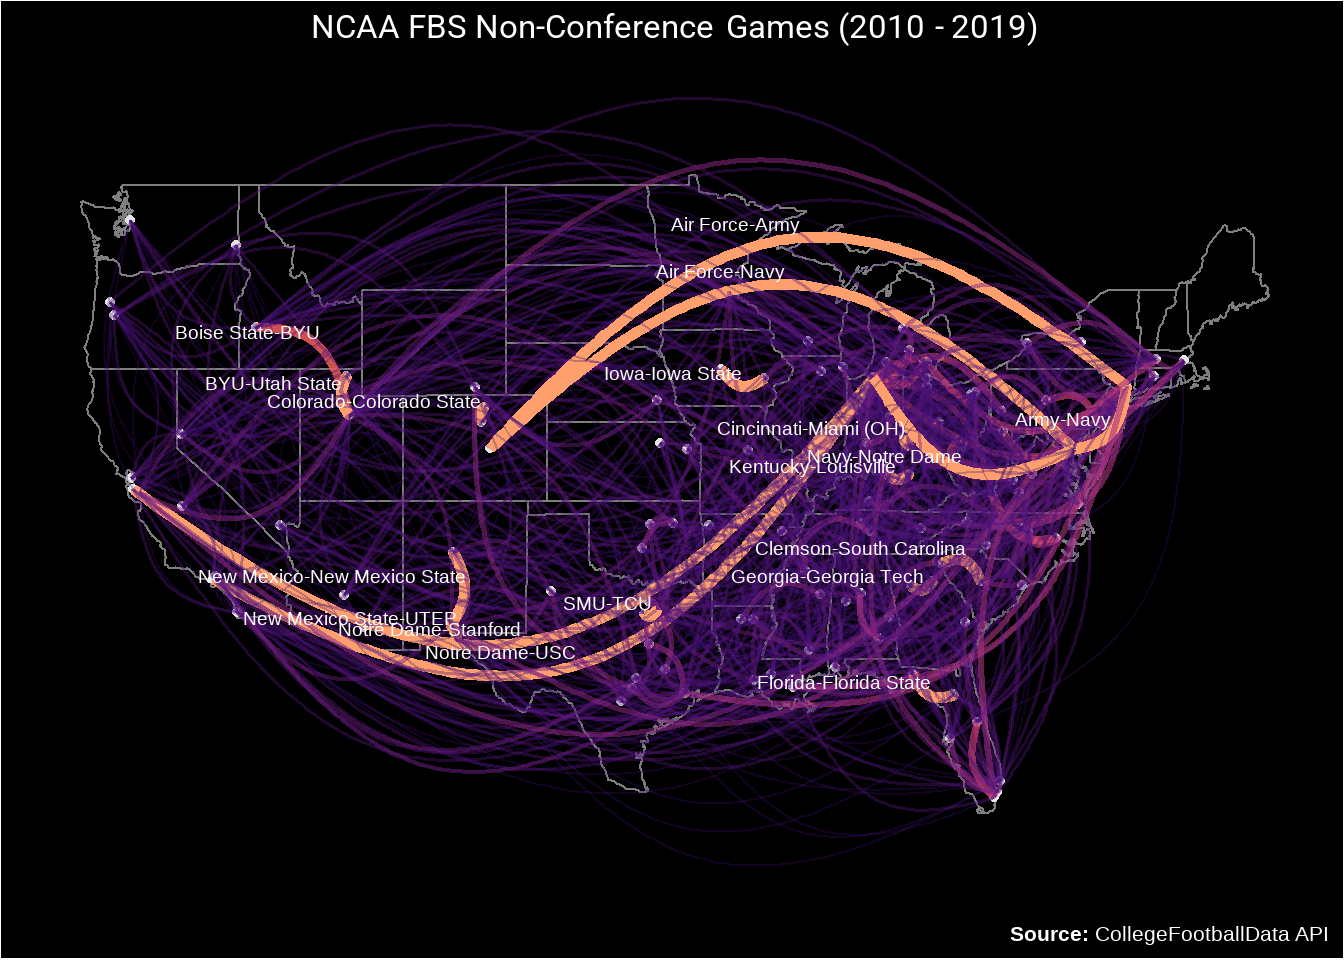
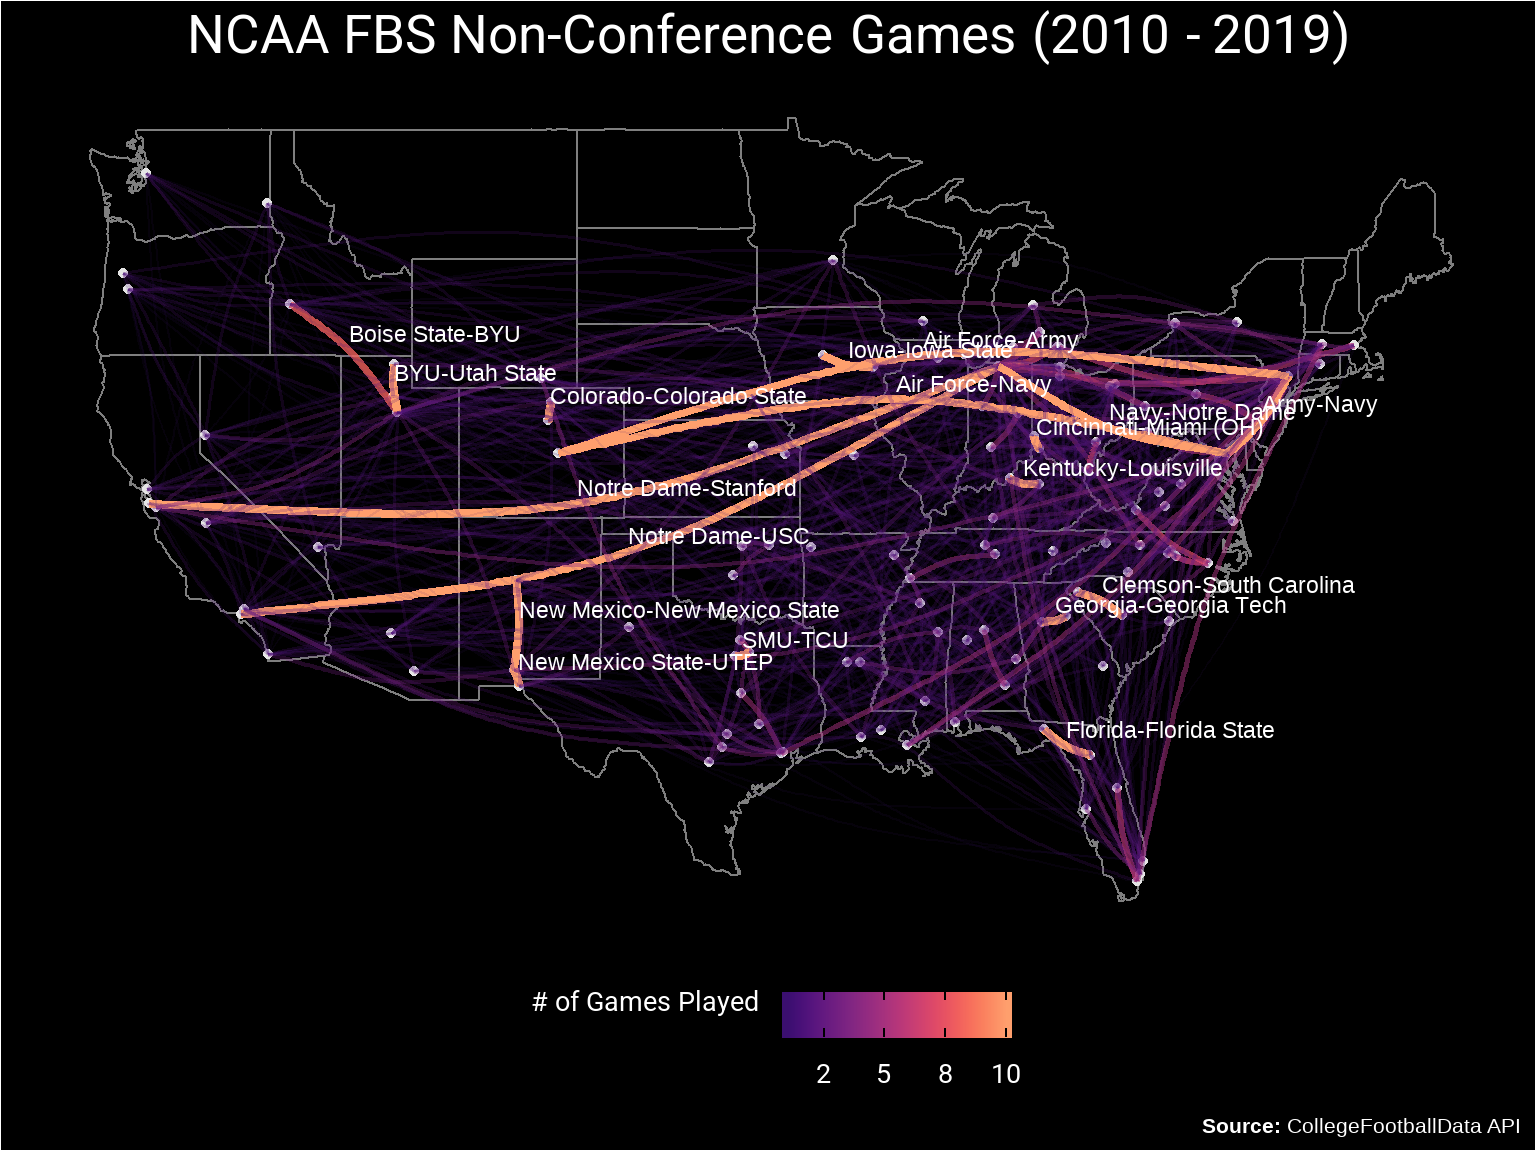
fixing some language and aethestics

diff --git a/content/post/2021-12-27-exploring-college-football-non-conference-rivalries-with-ggraph/index.html b/content/post/2021-12-27-exploring-college-football-non-conference-rivalries-with-ggraph/index.html
@@ -110,7 +110,7 @@ knitr::kable(head(nodes, 5))</code></pre>
 </tbody>
 </table>
 <p>Edges will be a little trickier since I want this graph to be undirected. If Notre Dame plays USC, I don’t really care who was the home team or the away team, so I’ll need to find a way to count these as the same match-up. While I’m sure there’s a better way to do this I decided to solve this problem by making the team that goes first alphabetically <em>school1</em> and the other team <em>school2</em>. This will apply a consistent ordering between any match-up.</p>
-<p>In order to use the {tidygraph} package the edge list needs to have <em>from</em> and <em>to</em> columns even in the graph is undirected. Then once I have the edge list I construct a <em>weight</em> column by using the <code>count()</code> function from {dplyr}.</p>
+<p>In order to use the {tidygraph} package the edge list needs to have <em>from</em> and <em>to</em> columns even if the graph is undirected. Then once I have the edge list I construct a <em>weight</em> column by using the <code>count()</code> function from {dplyr}.</p>
 <p>I also exclude all conference games using a field that comes in the data set as well as an additional filter to ensure that both nodes are FBS schools since FBS schools can play non-FBS schools during the season.</p>
 <pre class="r"><code>edge_list &lt;- schedule %&gt;% 
   # Remove any conference games
@@ -177,6 +177,7 @@ knitr::kable(head(edge_list, 5))</code></pre>
 </tr>
 </tbody>
 </table>
+<p>An interpretation of this first row is that Auburn played San Jose State twice between 2010 and 2019 and only played Louisville once.</p>
 <p>The {tidygraph} package has its own structure called a <code>tbl_graph</code> which combines the nodes and edges into a single data structure and allows the user to manipulate either portion. While there is a constructor specifically for the <code>tbl_graph</code> object, I was having trouble getting it to work so I used <code>graph_from_data_frame</code> from {igraph} and then cast the graph to a <code>tbl_graph</code>.</p>
 <p>Also, no disrespect to the University of Hawaii but their presence really messes up the graph since Hawaii is <strong>so</strong> far from the other schools. So I’m just going to exclude them.</p>
 <pre class="r"><code>g &lt;- igraph::graph_from_data_frame(d = edge_list, directed = F, vertices = nodes) %&gt;% 
@@ -211,34 +212,44 @@ print(g)</code></pre>
 <h3>Visualizing the Graph</h3>
 <p>Normally, a graph can be displayed using any number of algorithms to show optimal clustering and separation. However, in this case my nodes are actual schools with actual locations given by their latitudes and longitudes. So for my graph, if I want to show them on a United States map I will need to create a layout that forces the nodes in their true geographic positions. This can be done using the <code>create_layout</code> function which takes the graph and then <em>x</em> and <em>y</em> positions. Since those <em>x</em> and <em>y</em> positions need to be in the same order as the nodes in the graph object I’m just going to reference the graph object directly when populating <em>x</em> and <em>y</em>.</p>
 <pre class="r"><code>lay = create_layout(g, &#39;manual&#39;, x= g %&gt;% pull(longitude), y=g %&gt;% pull(latitude))</code></pre>
-<p>With the layout in place I can construct the graph. The syntax for {{ggraph}} isn’t much different from {{ggplot2}}. The main difference is in the starting function where {{ggraph}} takes in a graph and/or a layout. In this case because my custom layout already contains the graph I can just pass in the layout. Then there are some specific geoms for the graphs such as <code>geom_node_point</code> which places a point at each node, and <code>geom_edge_arc</code> which draws an arc for each edge (as opposed to a straight line which could be done with <code>geom_edge_link</code>). Then there are some specific styles like edge_alpha vs. alpha. But if you’re familiar with {ggplot2}} then this syntax shouldn’t be too different. The only other piece which I had never used before was <code>borders("state", color = 'grey90')</code> to draw the US state borders.</p>
+<p>With the layout in place I can construct the graph. The syntax for {{ggraph}} isn’t much different from {{ggplot2}}. The main difference is in the starting function where {{ggraph}} takes in a graph and/or a layout. In this case because my custom layout already contains the graph I can just pass in the layout. Then there are some specific geoms for the graphs such as <code>geom_node_point</code> which places a point at each node, and <code>geom_edge_arc</code> which draws an arc for each edge with the <em>strength</em> parameter controlling how “arc-y” to make the edge (as opposed to a straight line which could be done with <code>geom_edge_link</code>). Then there are some specific styles like edge_alpha vs. alpha. But if you’re familiar with {ggplot2}} then this syntax shouldn’t be too different. The only other piece which I had never used before was <code>borders("state", color = 'grey90')</code> to draw the US state borders.</p>
 <p>While the more common games will show up with thicker and brighter lines not everyone knows the location of every FBS college in the US. So for the match-ups that occurred in at least of 8 of the 10 available years, I’ll add labels to the edges.</p>
 <pre class="r"><code>ggraph(lay) + 
   borders(&quot;state&quot;, color = &#39;grey90&#39;) +
   geom_node_point(color = &#39;grey90&#39;) + 
-  geom_edge_arc(strength = 0.4, 
+  geom_edge_arc(strength = 0.1, 
                 aes(edge_alpha = weight, 
                     edge_color = weight, 
                     edge_width = weight,
-                    label = if_else(weight &gt;= 8, paste0(first_team,&#39;-&#39;,second_team), &quot;&quot;)
+                    label = if_else(weight &gt;= 8, 
+                                    paste0(first_team,&#39;-&#39;,second_team), &quot;&quot;)
                 ),
-                vjust = -0.5,
-                hjust = 1,
+                vjust = -.5,
+                hjust = 0,
                 label_colour = &#39;white&#39;,
-                label_size = 5) + 
-  scale_edge_colour_viridis(begin = .2, end = .8, option = &quot;A&quot;, direction = 1, guide = &#39;none&#39;) + 
-  scale_edge_width_continuous(range = c(.5, 2), guide = &#39;none&#39;) + 
-  scale_edge_alpha_continuous(guide = &#39;none&#39;, range = c(0.3, 1)) + 
+                label_size = 6) + 
+  scale_edge_color_viridis(begin = .2, end = .8, option = &quot;A&quot;, direction = 1,
+                           labels = round) + 
+  scale_edge_width_continuous(range = c(.5, 1.5), guide = &#39;none&#39;) + 
+  scale_edge_alpha_continuous(guide = &#39;none&#39;, range = c(0.1, 1)) + 
   labs(title = &quot;NCAA FBS Non-Conference Games (2010 - 2019)&quot;,
-       caption = &#39;**Source:** CollegeFootballData API&#39;) + 
+       caption = &#39;**Source:** CollegeFootballData API&#39;,
+       edge_color = &quot;# of Games Played&quot;) + 
   theme(
     panel.background = element_rect(fill = &#39;black&#39;),
     plot.background = element_rect(fill = &#39;black&#39;),
     plot.caption = element_markdown(color = &#39;white&#39;, size = 16),
-    plot.subtitle = element_textbox_simple(family = &#39;roboto&#39;, size = 20, color = &#39;white&#39;),
-    plot.title = element_markdown(hjust = .5, family = &#39;roboto&#39;, color = &#39;white&#39;, size = 25),
+    plot.subtitle = element_textbox_simple(family = &#39;roboto&#39;, size = 20, 
+                                           color = &#39;white&#39;),
+    plot.title = element_markdown(hjust = .5, family = &#39;roboto&#39;, 
+                                  color = &#39;white&#39;, size = 40),
+    legend.position = &#39;bottom&#39;,
+    legend.title = element_text(family = &#39;roboto&#39;, size = 20, color = &#39;white&#39;, 
+                                vjust = 1),
+    legend.text = element_text(family = &#39;roboto&#39;, size = 20, color = &#39;white&#39;),
+    legend.background = element_rect(fill = &#39;black&#39;)
   )</code></pre>
-<p><img src="{{< blogdown/postref >}}index_files/figure-html/final_graph-1.png" width="100%" /></p>
+<p><img src="{{< blogdown/postref >}}index_files/figure-html/final_graph-1.png" width="768" /></p>
 </div>
 </div>
 <div id="analysis" class="section level2">
@@ -249,6 +260,6 @@ print(g)</code></pre>
 <li>Games between schools that are in-state but in different conferences (Florida vs. Florida State, Colorado vs. Colorado State, Clemson vs. South Carolina, Georgia vs. Georgia Tech).</li>
 <li>Games between schools that have functional reasons to be rivals such as the three service academies (Army, Navy, and Air Force).</li>
 </ol>
-<p>While are not terrible surprising for anyone that follows college football, this post hopefully shows how you can create a network graph out of geographic coordinates and fix the layout so that it can be applied on top of a real map.</p>
+<p>While not terribly surprising for anyone that follows college football, this post hopefully shows how you can create a network graph out of geographic coordinates and fix the layout so that it can be applied on top of a real map.</p>
 <p>In the next post I’ll be continuing on the theme of College Football and network graphs to see what we can learn about Conference Realignment!</p>
 </div>
